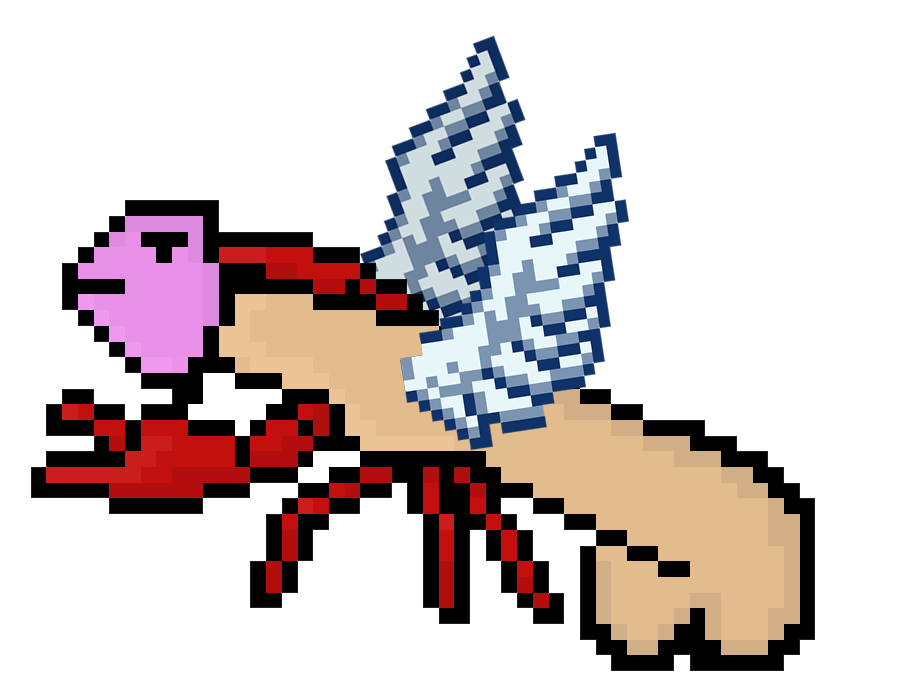
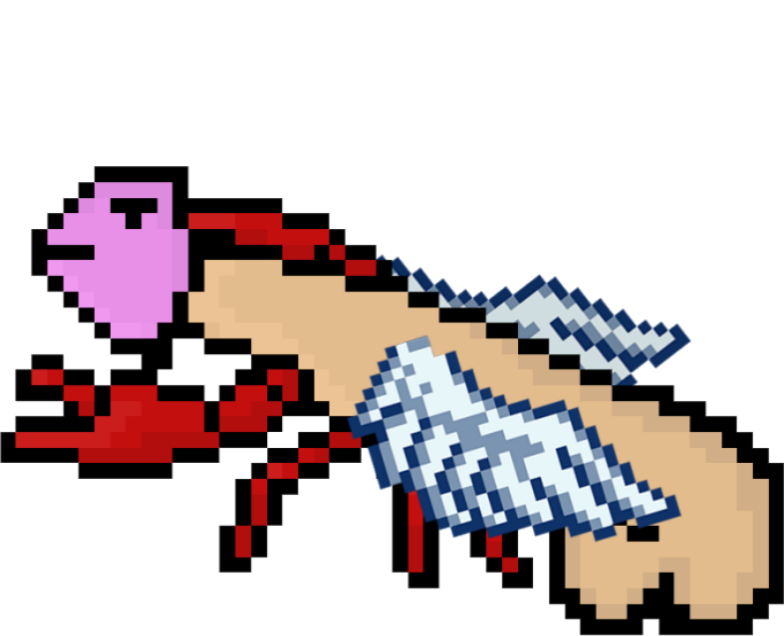
implemented basic movement and jumps along with proper mouse input support, birds draw to screen

diff --git a/cock_lobster.py b/cock_lobster.py
@@ -6,12 +6,15 @@ import random
 WIN_WIDTH = 500
 WIN_HEIGHT = 800
 
+mouse_pressed = False
+
 WIN = pygame.display.set_mode((WIN_WIDTH, WIN_HEIGHT))
 pygame.display.set_caption("Cock Lobster")
 
 BIRD_IMGS = [pygame.transform.scale2x(pygame.image.load(os.path.join("imgs","bird" + str(x) + ".png"))) for x in range(1,4)]
-PIPE_IMG = [pygame.transform.scale2x(pygame.image.load(os.path.join("imgs", "pipe.png")))]
-BASE_IMG = [pygame.transform.scale2x(pygame.image.load(os.path.join("imgs", "base.png")))]
+#BIRD_IMGS = [pygame.transform.scale(pygame.image.load(os.path.join("imgs","cocklob1.png")), (200, 200)), pygame.transform.scale(pygame.image.load(os.path.join("imgs","cocklob2.png")), (200, 200)), pygame.transform.scale(pygame.image.load(os.path.join("imgs","cocklob3.png")), (200, 200))]
+PIPE_IMG = pygame.transform.scale2x(pygame.image.load(os.path.join("imgs", "pipe.png")))
+BASE_IMG = pygame.transform.scale2x(pygame.image.load(os.path.join("imgs", "base.png")))
 BG_IMG = pygame.transform.scale(pygame.image.load(os.path.join("imgs","bg.png")).convert_alpha(), (600, 900))
 
 class Bird:
@@ -25,26 +28,26 @@ class Bird:
 		self.y = y
 		self.tilt = 0
 		self.tick_count = 0
-		self.vol = 0
+		self.vel = 0
 		self.height = self.y
 		self.img_count = 0
 		self.img = self.IMGS[0]
 
 	def jump(self):
-		self.vel = -10.5
+		self.vel = -0.1
 		self.tick_count = 0
 		self.height = self.y
 
 	def move(self):
-		self.tick_count += 1
+		self.tick_count += 0.0005
 
-		d = self.vel*self.tick_count + 1.5*self.tick_count**2
+		d = self.vel * self.tick_count + 1.5 * self.tick_count**2
 
 		if d >= 16:
 			d = 16
 
 		if d < 0:
-			d -= 2
+			d -= 1
 
 		self.y = self.y + d
 
@@ -55,6 +58,12 @@ class Bird:
 		else:
 			if self.tilt > -90:
 				self.tilt -= self.ROT_VOL
+
+		if self.y > WIN_HEIGHT:
+			self.y = WIN_HEIGHT - 48
+
+		if self.y < 0:
+			self.y = 0
 
 
 	def draw(self, win):
@@ -76,14 +85,32 @@ class Bird:
 			self.img = self.IMGS[1]
 			self.img_count = self.ANIMATION_TIME*2
 
+		blitRotateCenter(win, self.img, (self.x, self.y), self.tilt)
+
 	def get_mask(self):
 		return pygame.mask.from_surface(self.img)
 
+def blitRotateCenter(surf, image, topleft, angle):
+    rotated_image = pygame.transform.rotate(image, angle)
+    new_rect = rotated_image.get_rect(center = image.get_rect(topleft = topleft).center)
+
+    surf.blit(rotated_image, new_rect.topleft)
 
 def draw_window(win, bird):
 	win.blit(BG_IMG, (0,0))
 	bird.draw(win)
 	pygame.display.update()
+
+def mouse_clicked(event):
+	global mouse_pressed
+	if event == (0, 0, 0):
+		mouse_pressed = False
+		return False
+	elif mouse_pressed:
+		return False
+	elif event == (1, 0, 0):
+		mouse_pressed = True
+		return True
 
 
 def main():
@@ -96,6 +123,12 @@ def main():
 				run = False
 				pygame.quit()
 				quit()
+
+		bird.move()
+
+		if mouse_clicked(pygame.mouse.get_pressed()):
+			print('mf jump')
+			bird.jump()
 
 		draw_window(WIN, bird)
 		
